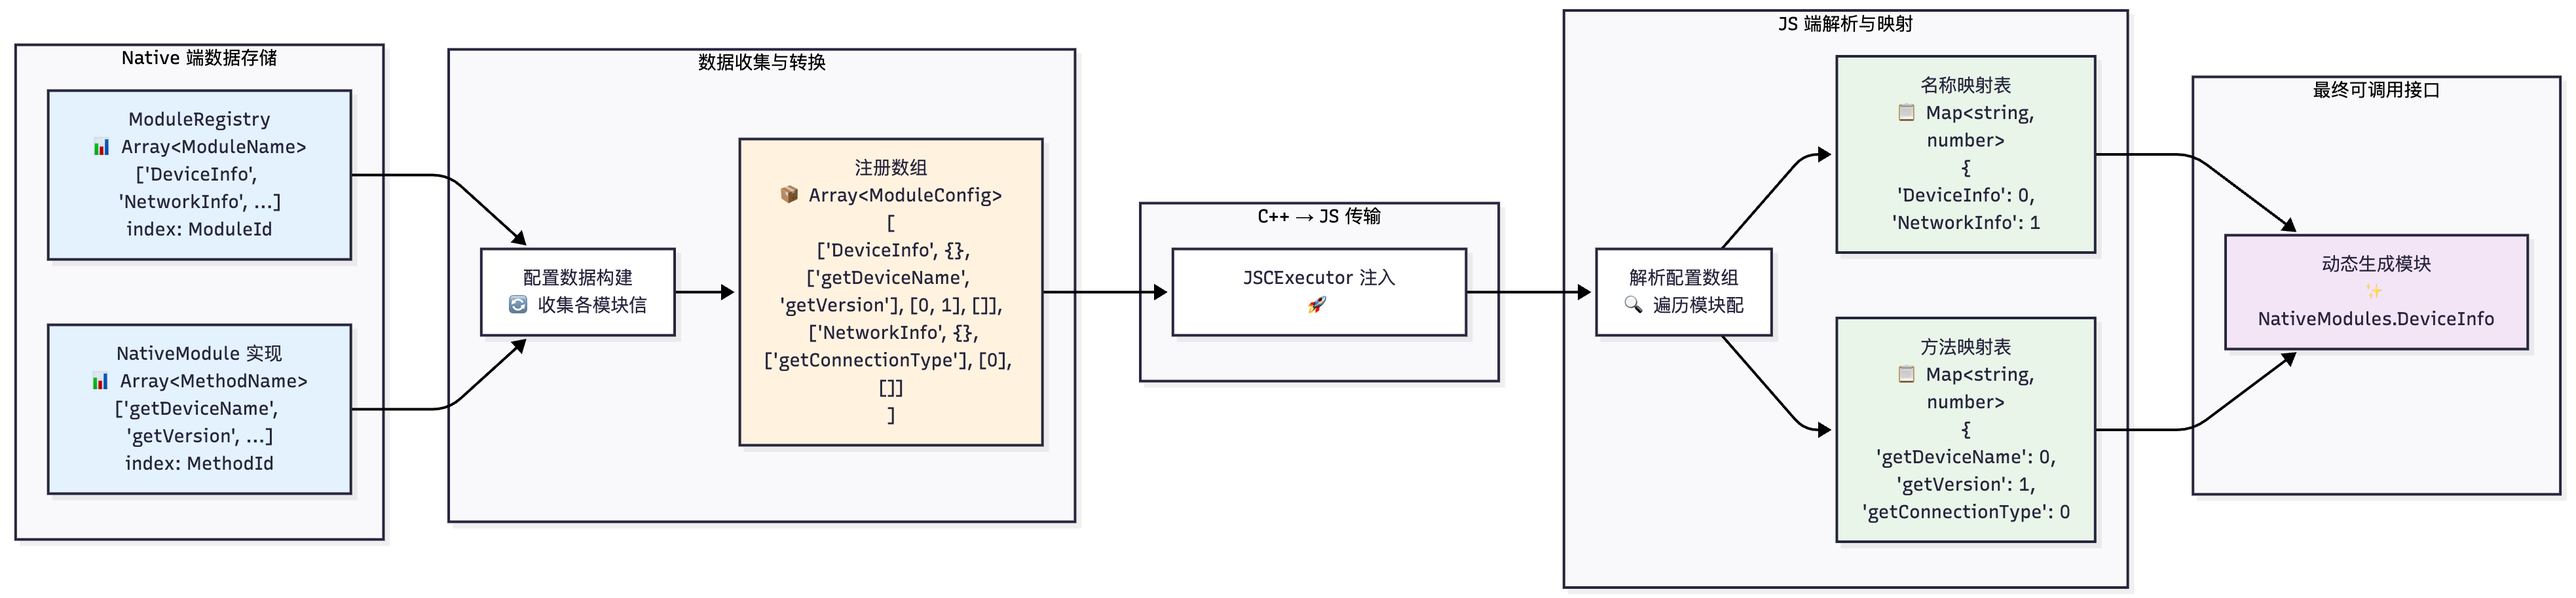
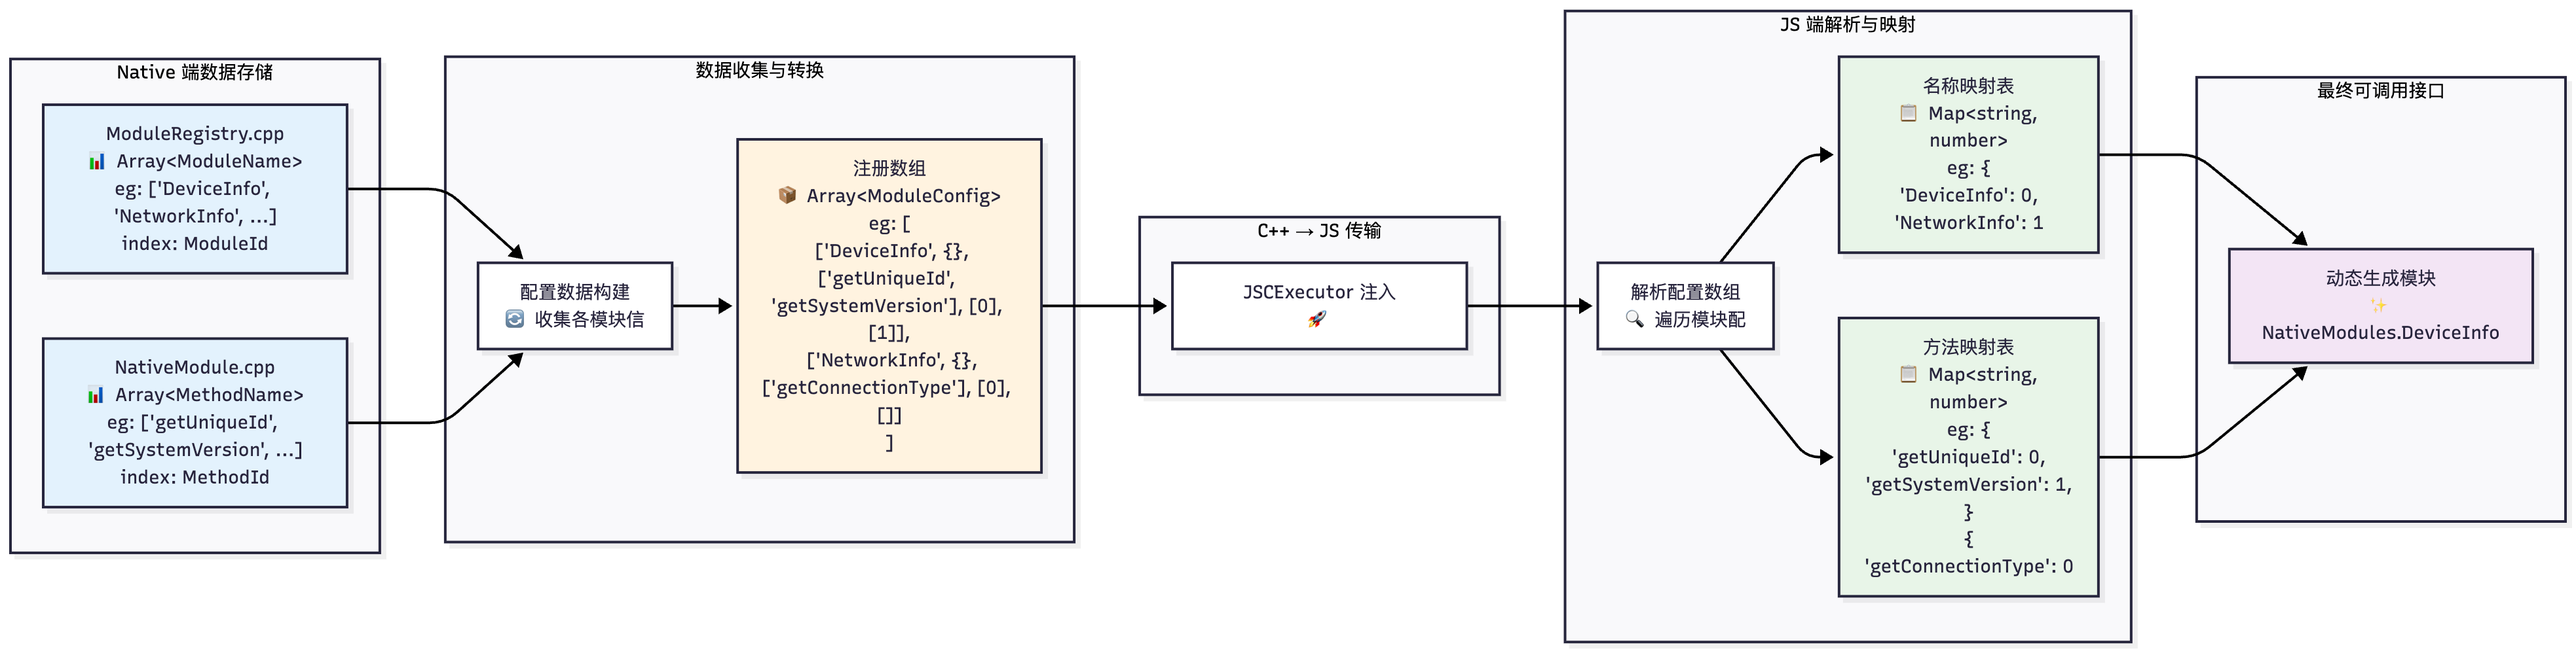
feat: enhance module registration documentation with updated flow diagrams and examples

diff --git a/app/n/2025/mini-rn-1/module-registration-flow.md b/app/n/2025/mini-rn-1/module-registration-flow.md
@@ -5,13 +5,13 @@
 ```mermaid
 flowchart LR
     subgraph "Native 端数据存储"
-        A["ModuleRegistry<br/>📊 Array&lt;ModuleName&gt;<br/>['DeviceInfo', 'NetworkInfo', ...]<br/>index: ModuleId"]
-        B["NativeModule 实现<br/>📊 Array&lt;MethodName&gt;<br/>['getDeviceName', 'getVersion', ...]<br/>index: MethodId"]
+        A["ModuleRegistry.cpp<br/>📊 Array&lt;ModuleName&gt;<br/>eg: ['DeviceInfo', 'NetworkInfo', ...]<br/>index: ModuleId"]
+        B["NativeModule.cpp<br/>📊 Array&lt;MethodName&gt;<br/>eg: ['getUniqueId', 'getSystemVersion', ...]<br/>index: MethodId"]
     end
 
     subgraph "数据收集与转换"
         C["配置数据构建<br/>🔄 收集各模块信息"]
-        D["注册数组<br/>📦 Array&lt;ModuleConfig&gt;<br/>[<br/>  ['DeviceInfo', {}, ['getDeviceName', 'getVersion'], [0, 1], []],<br/>  ['NetworkInfo', {}, ['getConnectionType'], [0], []]<br/>]"]
+        D["注册数组<br/>📦 Array&lt;ModuleConfig&gt;<br/>eg: [<br/>  ['DeviceInfo', {}, ['getUniqueId', 'getSystemVersion'], [0], [1]],<br/>  ['NetworkInfo', {}, ['getConnectionType'], [0], []]<br/>]"]
     end
 
     subgraph "C++ → JS 传输"
@@ -20,8 +20,8 @@ flowchart LR
 
     subgraph "JS 端解析与映射"
         F["解析配置数组<br/>🔍 遍历模块配置"]
-        G["名称映射表<br/>📋 Map&lt;string, number&gt;<br/>{<br/>  'DeviceInfo': 0,<br/>  'NetworkInfo': 1<br/>}"]
-        H["方法映射表<br/>📋 Map&lt;string, number&gt;<br/>{<br/>  'getDeviceName': 0,<br/>  'getVersion': 1,<br/>  'getConnectionType': 0<br/>}"]
+        G["名称映射表<br/>📋 Map&lt;string, number&gt;<br/>eg: {<br/>  'DeviceInfo': 0,<br/>  'NetworkInfo': 1<br/>}"]
+        H["方法映射表<br/>📋 Map&lt;string, number&gt;<br/>eg: {<br/>  'getUniqueId': 0,<br/>  'getSystemVersion': 1,<br/>}<br />{<br/>  'getConnectionType': 0<br/>}"]
     end
 
     subgraph "最终可调用接口"
